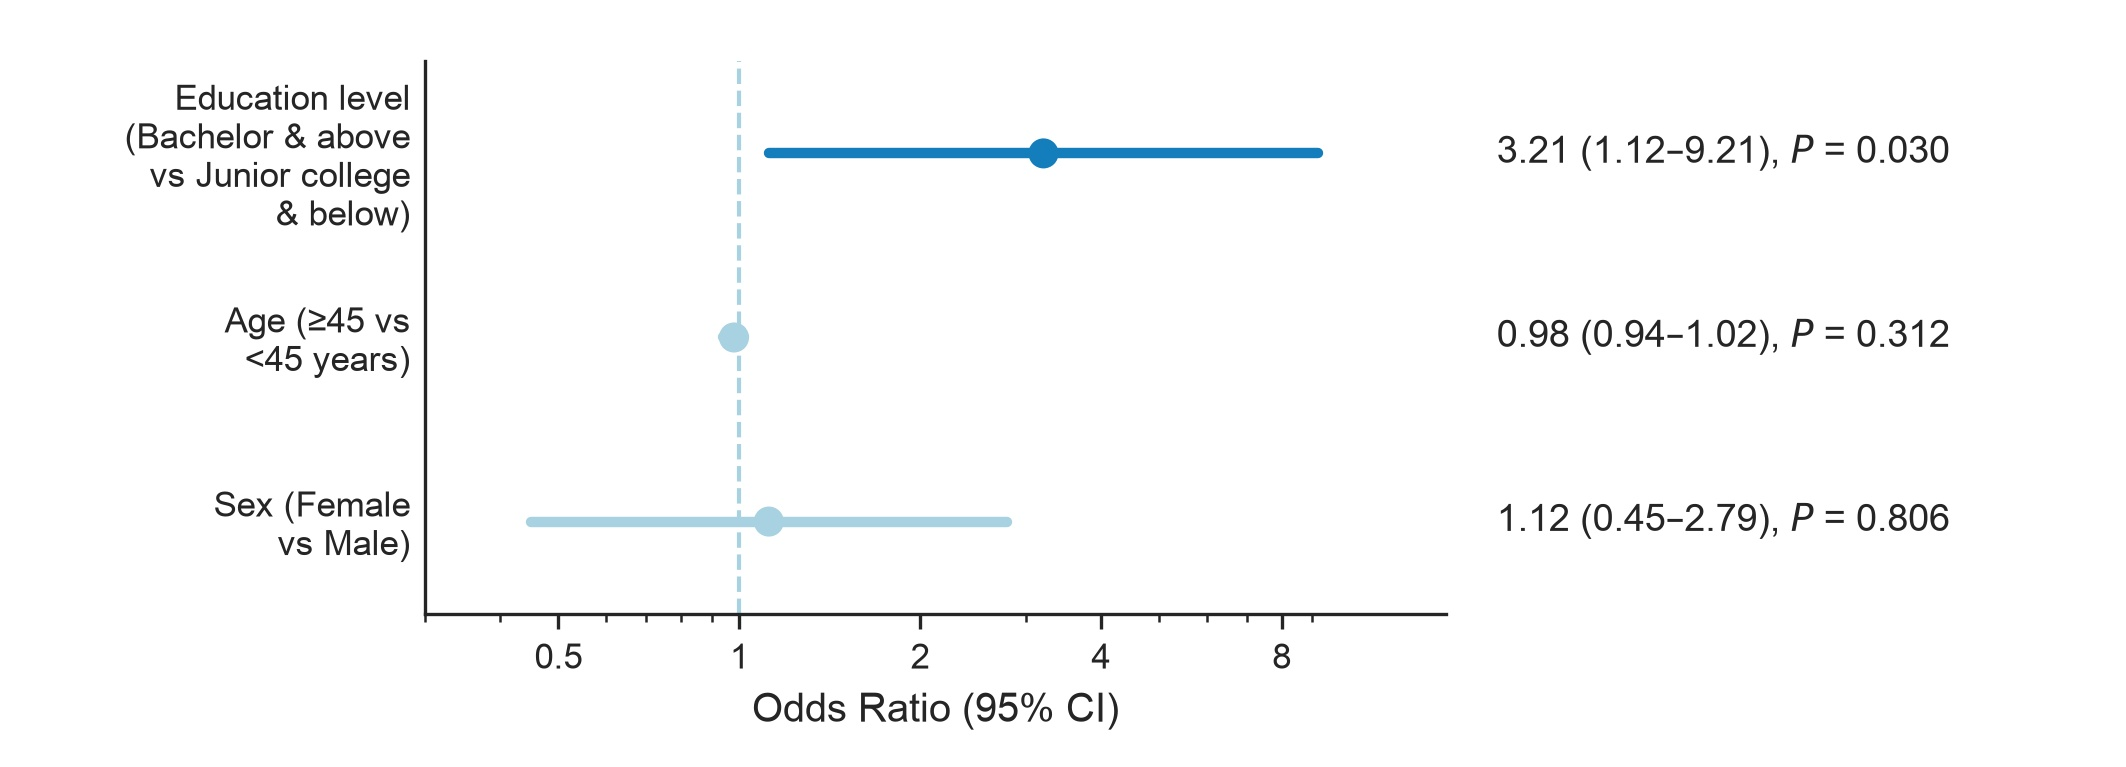
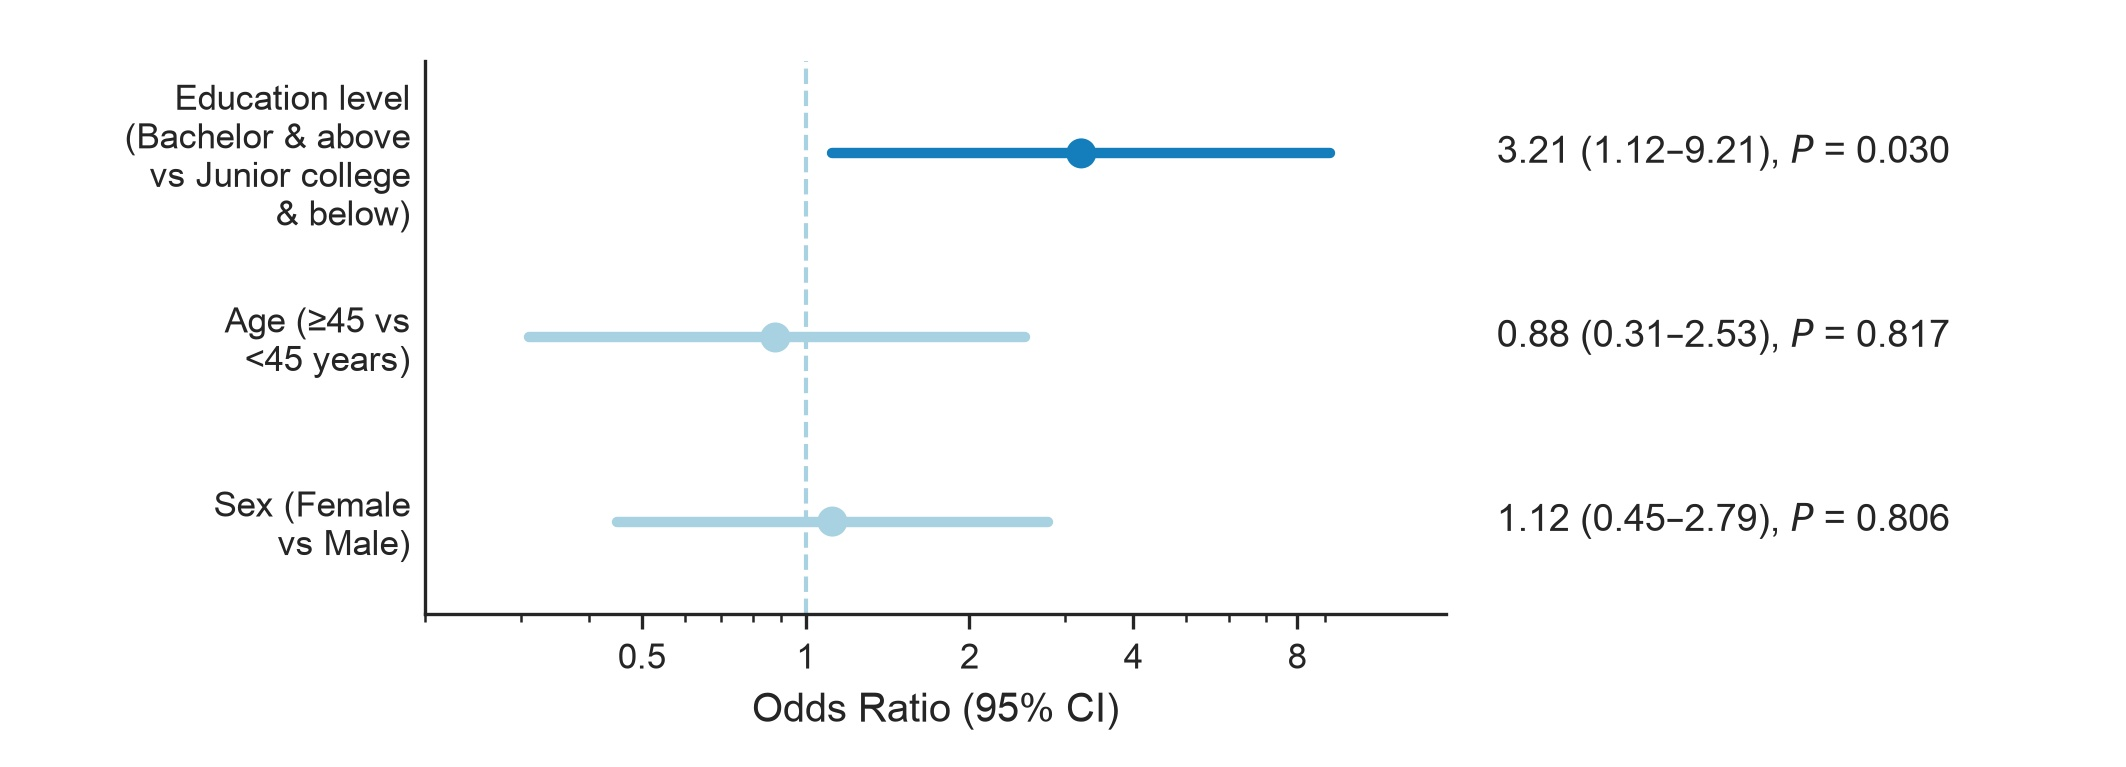
好了，都改完了

diff --git a/results/Figure_2.py b/results/Figure_2.py
@@ -10,10 +10,10 @@ variables = [
     'Age (≥45 vs\n<45 years)',
     'Sex (Female\nvs Male)',
 ]
-or_vals   = [3.21, 0.98, 1.12]
-ci_low    = [1.12, 0.94, 0.45]
-ci_high   = [9.21, 1.02, 2.79]
-p_vals    = [0.030, 0.312, 0.806]
+or_vals   = [3.21, 0.88, 1.12]
+ci_low    = [1.12, 0.31, 0.45]
+ci_high   = [9.21, 2.53, 2.79]
+p_vals    = [0.030, 0.817, 0.806]
 
 # Colors
 BG        = '#ffffff'
@@ -68,7 +68,7 @@ ax.set_yticks(y_positions)
 ax.set_yticklabels(variables, fontsize=8.5, color=TEXT_CLR)
 ax.set_ylim(-0.5, n - 0.5)
 ax.set_xscale('log')
-ax.set_xlim(0.3, 15)
+ax.set_xlim(0.2, 15)
 ax.set_xticks([0.5, 1, 2, 4, 8])
 ax.set_xticklabels(['0.5', '1', '2', '4', '8'], fontsize=8.5, color=TEXT_CLR)
 ax.set_xlabel('Odds Ratio (95% CI)', fontsize=9.5, color=TEXT_CLR, labelpad=4)

diff --git a/manuscript.md b/manuscript.md
@@ -169,7 +169,7 @@ The raw data supporting the conclusions of this article will be made available b
 
 25. Gordon D, Heimberg RG, Tellez M, Ismail AI. A critical review of approaches to the treatment of dental anxiety in adults. J Anxiety Disord (2013) 27:365–78. doi: 10.1016/j.janxdis.2013.04.002
 
-26. Parameter on periodontitis associated with systemic conditions. J Periodontol (2000) 71(Suppl 5S):876–9. doi: 10.1902/jop.2000.71.5-S.876
+26. American Academy of Periodontology. Parameter on periodontitis associated with systemic conditions. J Periodontol (2000) 71(Suppl 5S):876–9. doi: 10.1902/jop.2000.71.5-S.876
 
 27. Qiao F, Zhang M, Zhang T, Zhu D. Dental anxiety is related to postoperative symptoms in third molar surgery. Front Psychiatry (2022) 13:956566. doi: 10.3389/fpsyt.2022.956566
 
